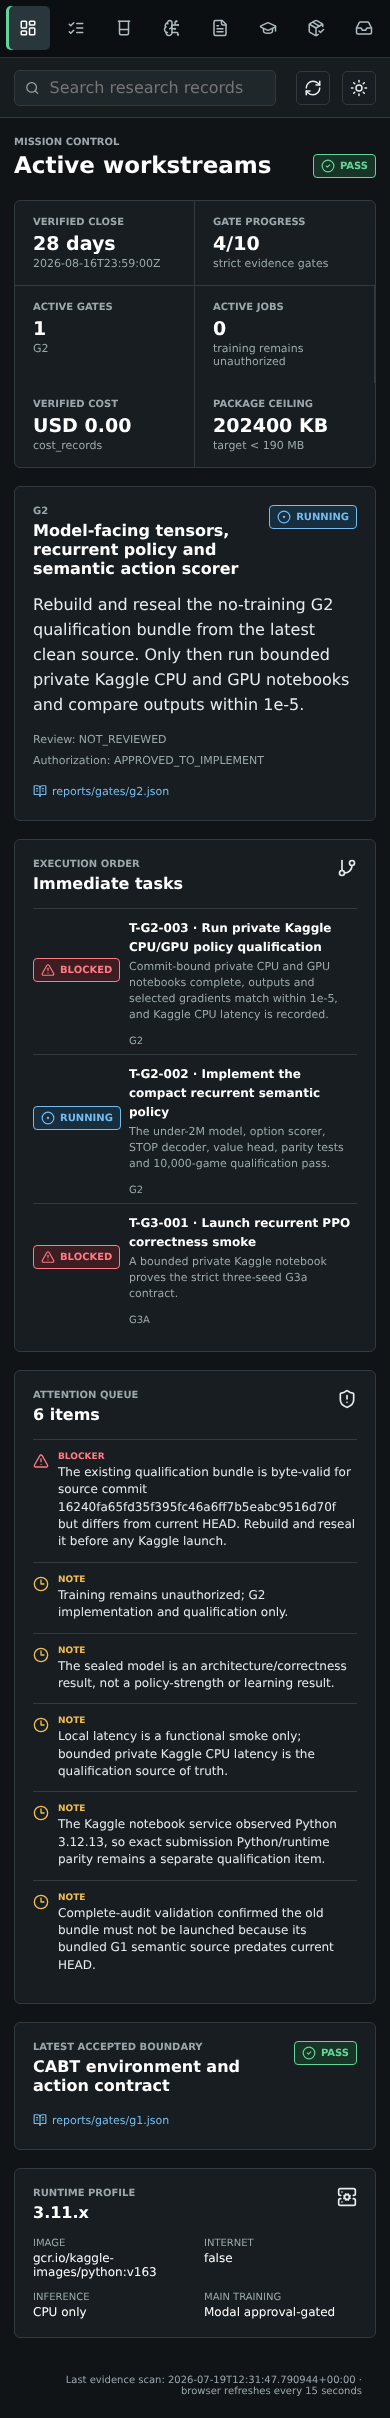
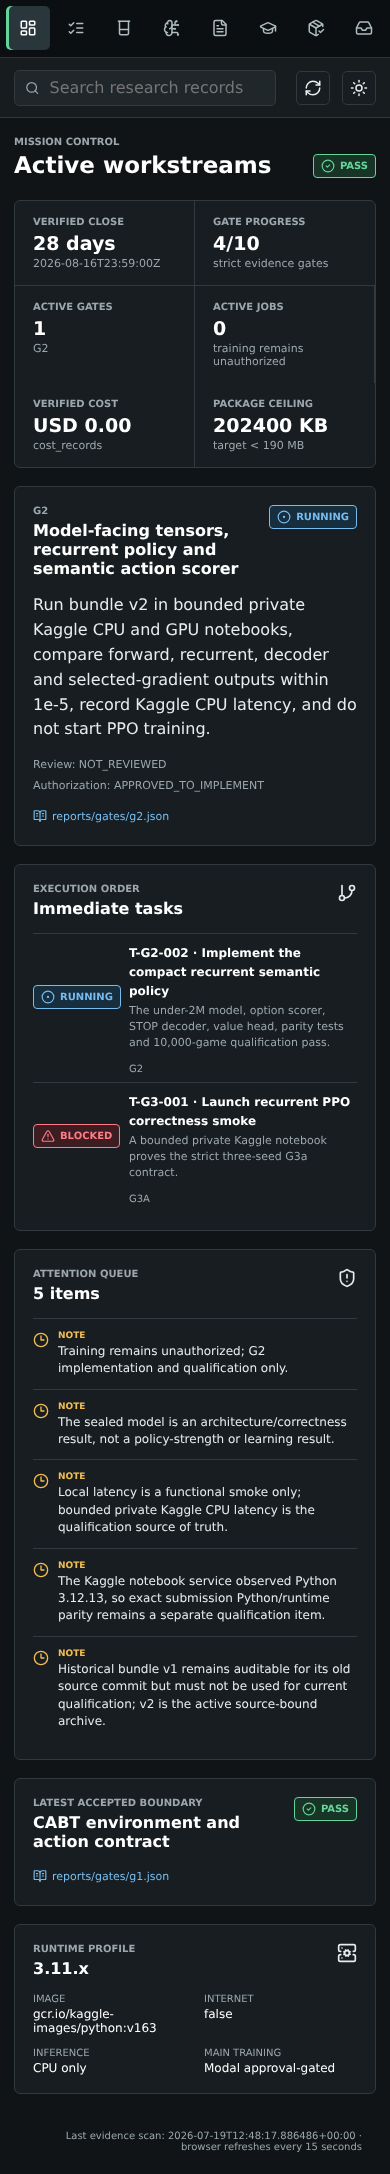
Reseal current-source G2 qualification bundle

diff --git a/ptcg-rl/tests/g2/test_qualification_bundle_report.py b/ptcg-rl/tests/g2/test_qualification_bundle_report.py
@@ -1,0 +1,58 @@
+from __future__ import annotations
+
+import json
+from pathlib import Path
+
+
[1 lines of base64/hex data omitted]
+SOURCE_COMMIT = "76951fb392fa6e3b8f65cb014d9cb7dba0bddf33"
+
+
+def load(root: Path, relative: str):
+    return json.loads((root / relative).read_text(encoding="utf-8"))
+
+
+def test_current_source_bundle_report_is_sealed_and_no_training() -> None:
+    root = Path(__file__).resolve().parents[2]
+    report = load(root, "reports/artifacts/g2-policy-qualification-bundle-v2.json")
+
+    assert report["status"] == "SUCCEEDED"
+    assert report["source_commit"] == SOURCE_COMMIT
+    assert report["bundle_sha256"] == BUNDLE_SHA256
+    assert report["bundle_bytes"] == 66851
+    assert report["included_files"] == 11
+    assert report["tracked_source_files"] == 10
+    assert report["private_numeric_tables"] == 1
+    assert set(report["archive_validation"].values()) == {"PASS", 0}
+    smoke = report["packaged_source_smoke"]
+    assert smoke["status"] == "PASS"
+    assert smoke["runs"] == 2
+    assert smoke["stable_payload_match"] is True
+    assert smoke["trainable_parameters"] == 970022
+    assert smoke["nonzero_selected_gradients"] == 7
+    assert smoke["all_checks"] is True
+    assert smoke["no_optimizer"] is True
+    assert smoke["no_training_loop"] is True
+    assert report["authorization"] == {
+        "training_included": False,
+        "optimizer_created": False,
+        "kaggle_launch_performed": False,
+    }
+
+
+def test_gate_and_task_activate_only_the_current_source_bundle() -> None:
+    root = Path(__file__).resolve().parents[2]
+    gate = load(root, "reports/gates/g2.json")
+    tasks = load(root, "reports/tasks/current.json")
+
+    checks = {item["name"]: item for item in gate["technical_checks"]}
+    assert checks["latest-clean-source qualification bundle"]["status"] == "PASS"
+    assert checks["Kaggle CPU/GPU numerical and latency qualification"]["status"] == "READY"
+    assert gate["blockers"] == []
+
+    task = next(item for item in tasks if item.get("task_id") == "T-G2-003")
+    assert task["status"] == "READY"
+    assert task["bundle_report"] == "reports/artifacts/g2-policy-qualification-bundle-v2.json"
+    assert task["bundle_sha256"] == BUNDLE_SHA256
+    assert task["bundle_source_commit"] == SOURCE_COMMIT
+    assert task["no_training"] is True

diff --git a/ptcg-rl/tests/integration/test_complete_audit_report.py b/ptcg-rl/tests/integration/test_complete_audit_report.py
@@ -42,5 +42,7 @@ def test_complete_pre_g2_audit_is_cryptographically_consistent() -> None:
     assert matrix["replay"]["semantic_audit_sha256"] == semantic["audit_sha256"]
     assert matrix["replay"]["independent_review_sha256"] == review["review_sha256"]
     assert incident["after"]["source_commit"] == review["source_commit"]
-    assert gate["technical_checks"][-3]["status"] == "BLOCKED"
-    assert gate["blockers"]
+    checks = {item["name"]: item["status"] for item in gate["technical_checks"]}
+    assert checks["latest-clean-source qualification bundle"] == "PASS"
+    assert checks["Kaggle CPU/GPU numerical and latency qualification"] == "READY"
+    assert gate["blockers"] == []

diff --git a/ptcg-rl/PROJECT_STATUS.md b/ptcg-rl/PROJECT_STATUS.md
@@ -69,7 +69,7 @@ The Kaggle MCP is connected. On 2026-07-19 the account reported approximately 45
[5 lines of base64/hex data omitted]
 - The exact Python patch and final effective timeout remain submission-qualification notes, not current blockers.
 - Main Modal training, deck freeze, Kaggle submissions and active-submission changes require explicit user approval.
 
@@ -106,6 +106,6 @@ The Kaggle MCP is connected. On 2026-07-19 the account reported approximately 45
 
 ## Immediate Next Actions
 
-1. Rebuild the no-training G2 qualification bundle from the latest clean source and seal its new source and archive hashes.
-2. Run the rebuilt bundle in bounded private Kaggle CPU and GPU notebooks and compare outputs and selected gradients within `1e-5`.
+1. Run qualification bundle v2 in bounded private Kaggle CPU and GPU notebooks and compare outputs and selected gradients within `1e-5`.
+2. Record Kaggle batch-1 CPU latency percentiles and close the CPU/GPU parity check only if every numerical contract passes.
 3. After parity passes, implement the checkpoint package contract and execute the 10,000-game neural-policy reliability gate without PPO training.
